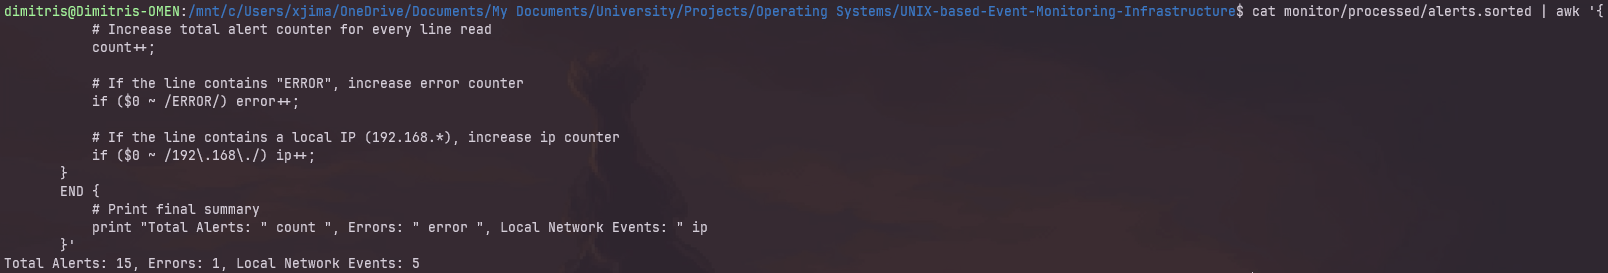
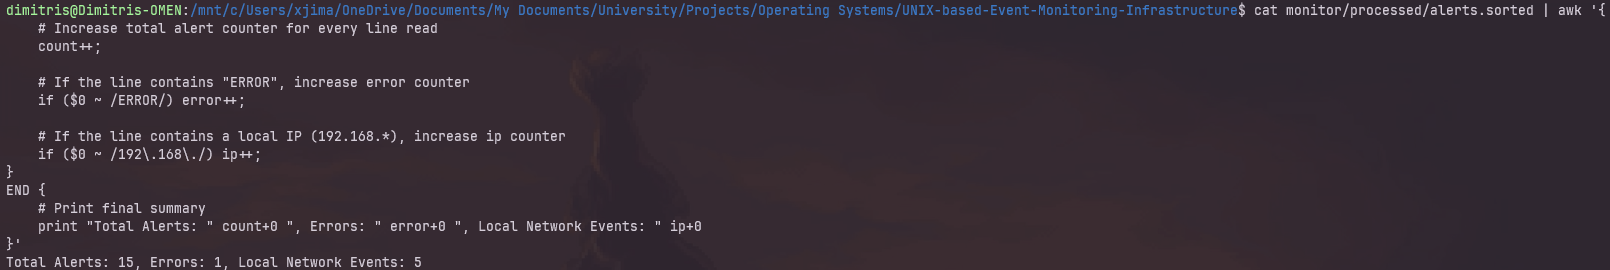
Changed section III. command and screenshots in REPORT.md

diff --git a/REPORT.md b/REPORT.md
@@ -122,7 +122,7 @@ cat monitor/processed/alerts.sorted | awk '{
 } 
 END { 
     # Print final summary
-    print "Total Alerts: " count ", Errors: " error ", Local Network Events: " ip 
+    print "Total Alerts: " count+0 ", Errors: " error+0 ", Local Network Events: " ip+0 
 }'
 ```
 ![III-1](screenshots/III-1.png)
@@ -140,10 +140,11 @@ cat monitor/processed/alerts.sorted | awk '{
 } 
 END { 
     # Print final summary
-    print "Total Alerts: " count ", Errors: " error ", Local Network Events: " ip 
+    print "Total Alerts: " count+0 ", Errors: " error+0 ", Local Network Events: " ip+0 
 }' > monitor/reports/daily_summary.txt
 ```
 ![III-2](screenshots/III-2.png)
+*Note: `+0` is used to prevent null values from being printed as `0`.*
 
 ---
 
